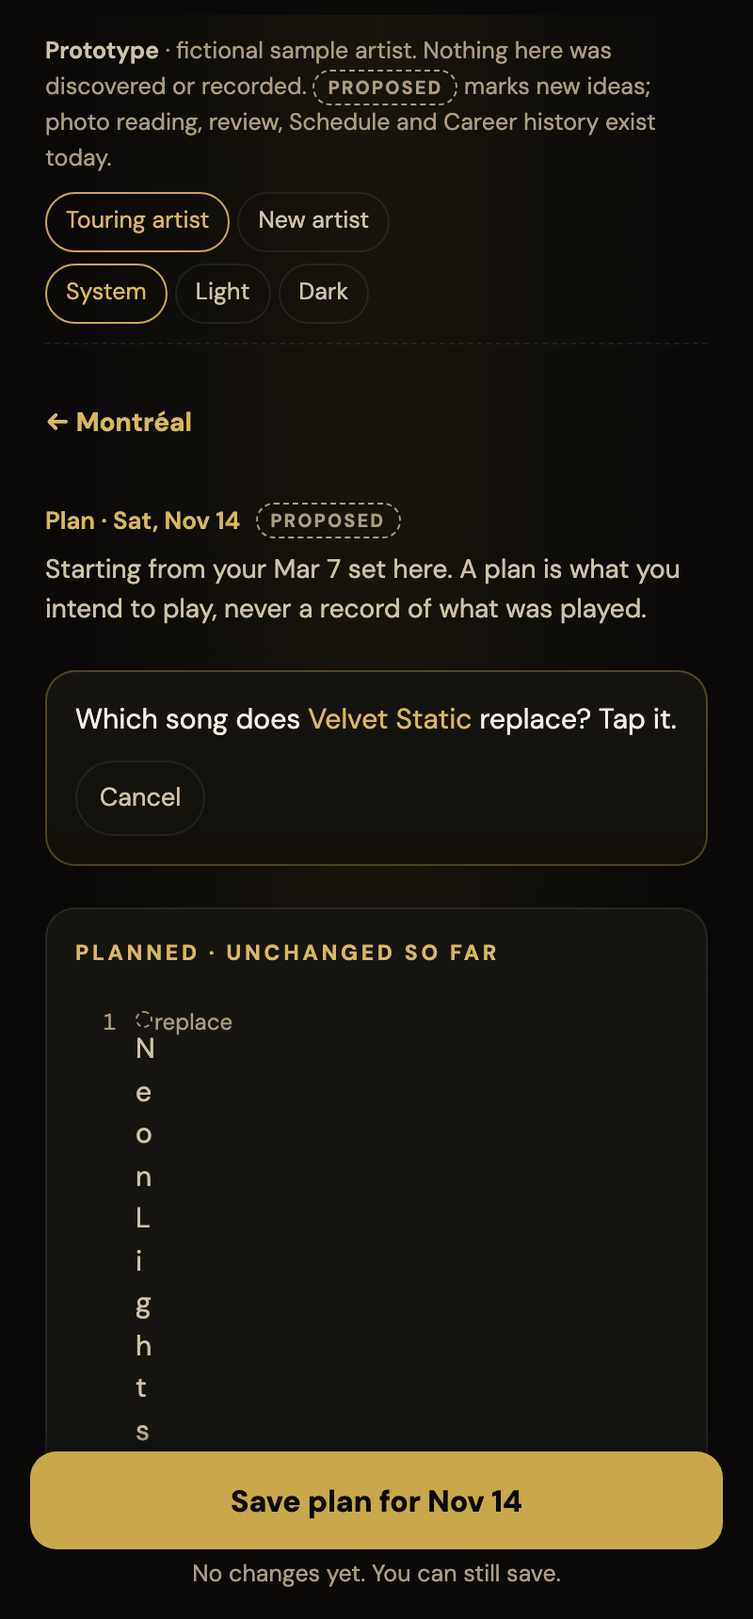
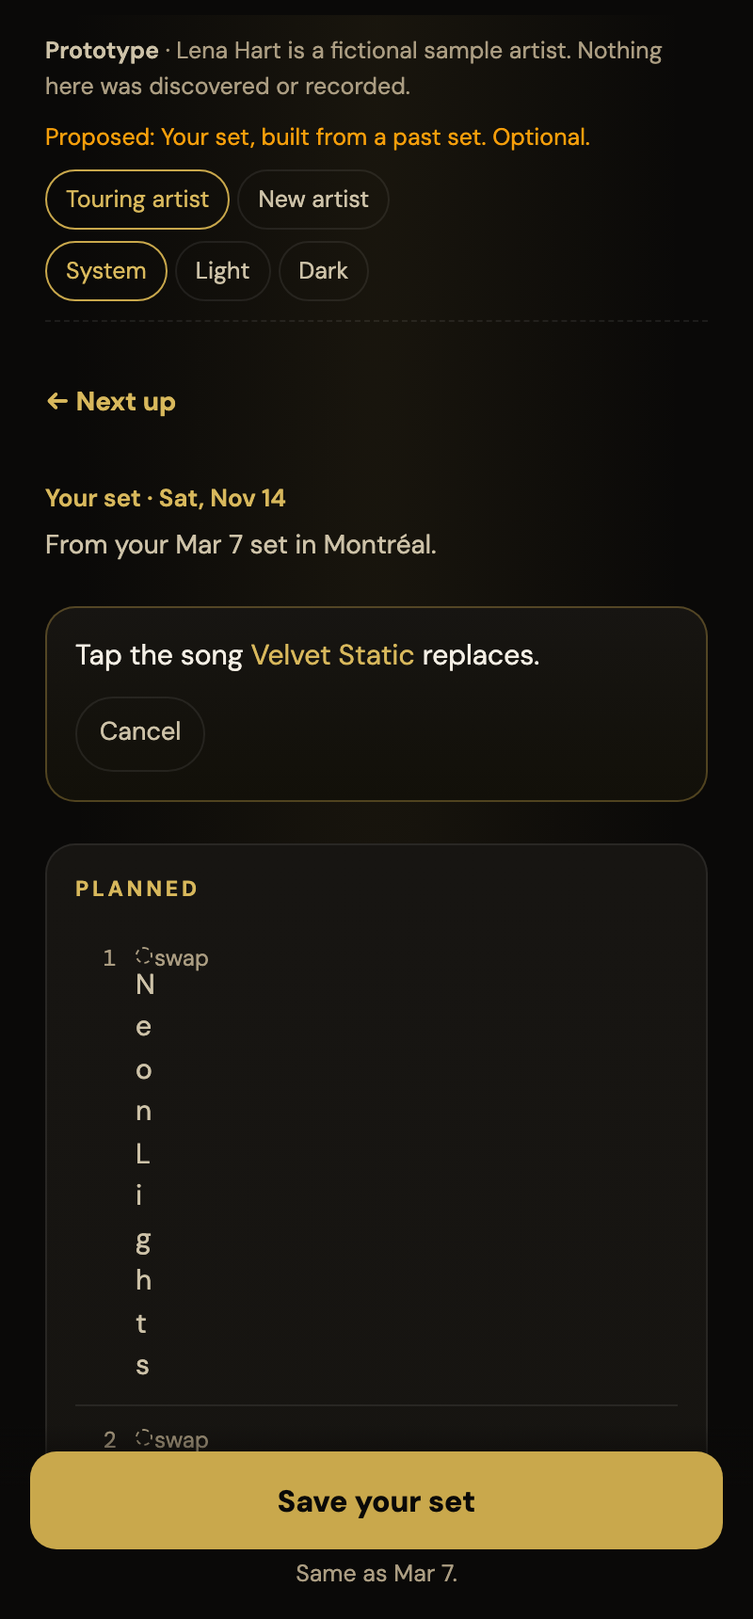
Docs: prototype copy and branding refinement (Next up, Your set, live story; optional planning)

diff --git a/setlistr-2/docs/live-passport-prototype/passport-loop.html b/setlistr-2/docs/live-passport-prototype/passport-loop.html
@@ -1,8 +1,8 @@
-<title>Live Passport</title>
+<title>Next Up</title>
 <link rel="preconnect" href="https://fonts.googleapis.com">
 <link rel="stylesheet" href="https://fonts.googleapis.com/css2?family=Bebas+Neue&family=DM+Mono:wght@400;500&family=DM+Sans:opsz,wght@9..40,400;9..40,500;9..40,600;9..40,700;9..40,800&display=swap">
 <style>
-/* Layout: one phone-first column. Today's show leads; the Passport sits below. One primary action pinned to the bottom.
+/* Layout: one phone-first column. Next up leads; your live story (Career) sits below. One primary action pinned to the bottom.
    Dark-first like the app (Setlistr --sl tokens); Light uses the app's own Light values. */
 :root {
   --sl-bg: #0a0908; --sl-surface: #16140f; --sl-surface-2: #1d1a15; --sl-line: rgba(255,255,255,0.08);
@@ -40,6 +40,8 @@ button:focus-visible, summary:focus-visible { outline: 2px solid var(--sl-accent
 
 .proto { max-width: 520px; margin: 0 auto; padding-block: 10px; display: grid; gap: 8px; border-bottom: 1px dashed var(--sl-line); font-size: 12.5px; color: var(--sl-text-3); }
 .proto b { color: var(--sl-text-2); font-weight: 600; }
+.pnote { color: var(--sl-warn); }
+.pnote:empty { display: none; }
 .proto .row { display: flex; flex-wrap: wrap; gap: 6px 12px; align-items: center; justify-content: space-between; }
 .seg { display: inline-flex; gap: 4px; flex-wrap: wrap; }
 .seg button { background: none; border: 1px solid var(--sl-line); border-radius: 999px; padding: 4px 10px; min-height: 32px; font-size: 12.5px; color: var(--sl-text-2); }
@@ -79,6 +81,7 @@ ol.set.planned li .t::before { content: ''; display: inline-block; width: 7px; h
 ol.set.played li .t::before { content: ''; display: inline-block; width: 7px; height: 7px; background: var(--sl-gold); border-radius: 50%; margin-right: 8px; vertical-align: 1px; }
 ol.set.compact { display: block; columns: 2; column-gap: 18px; }
 ol.set.compact li { break-inside: avoid; border-top: 0; padding: 4px 0; font-size: 14px; grid-template-columns: 18px minmax(0,1fr) auto; gap: 8px; }
+ol.set li.skipd .t::before { background: transparent !important; border: 1.5px dashed var(--sl-text-3) !important; }
 ol.set li.skipd .t { text-decoration: line-through; color: var(--sl-text-3); }
 
 .chip { display: inline-flex; gap: 8px; align-items: center; min-height: 44px; padding: 8px 14px; border-radius: 999px; border: 1px solid color-mix(in srgb, var(--sl-gold) 50%, transparent); background: color-mix(in srgb, var(--sl-gold) 10%, transparent); color: var(--sl-gold-text); font-weight: 700; }
@@ -129,7 +132,7 @@ details.how dd { margin: 0 0 4px; color: var(--sl-text-3); }
 .hist span { font: 10.5px/1.3 var(--mono); color: var(--sl-text-3); white-space: nowrap; text-align: center; }
 @media (prefers-reduced-motion: no-preference) { .hist .m.new { animation: land .9s cubic-bezier(.2,.9,.2,1.2) both .2s; } @keyframes land { from { transform: translateY(-40px) scale(2.4); opacity: 0; } 60% { opacity: 1; } } }
 
-/* The wider Passport. */
+/* Your live story (within Career). */
 .pp { border-top: 1px solid var(--sl-text); padding-top: 14px; display: grid; gap: 14px; }
 .pp-id { display: flex; justify-content: space-between; gap: 10px; align-items: baseline; flex-wrap: wrap; }
 .pp-name { font-family: var(--display); font-size: 44px; line-height: .9; letter-spacing: .012em; }
@@ -160,7 +163,8 @@ details.how dd { margin: 0 0 4px; color: var(--sl-text-3); }
 </style>
 
 <div class="proto" role="region" aria-label="Prototype controls">
-  <span><b>Prototype</b> · fictional sample artist. Nothing here was discovered or recorded. <span class="prop">Proposed</span> marks new ideas; photo reading, review, Schedule and Career history exist today.</span>
+  <span><b>Prototype</b> · Lena Hart is a fictional sample artist. Nothing here was discovered or recorded.</span>
+  <span id="pnote" class="pnote"></span>
   <div class="row">
     <span class="seg" aria-label="Sample"><button data-scn="est" aria-pressed="true">Touring artist</button><button data-scn="new" aria-pressed="false">New artist</button></span>
     <span class="seg" aria-label="Theme"><button data-th="system" aria-pressed="true">System</button><button data-th="light" aria-pressed="false">Light</button><button data-th="dark" aria-pressed="false">Dark</button></span>
@@ -254,86 +258,79 @@ function discovery(show) {
 // ── Screens ───────────────────────────────────────────────────────────────
 function today() {
   const show = next()
-  if (!show) return `<section style="display:grid;gap:10px"><div class="ov">Live Passport · ${esc(A.name)}</div><h1 class="city" style="font-size:72px">No show booked</h1>
-    <p class="when">Your record is up to date. Add your next show and its briefing will be here.</p></section>${passport()}`
-  const d = discovery(show), n = days(A.today, show.date), when = n === 0 ? 'Tonight' : n === 1 ? 'Tomorrow' : `In ${n} days`
-  const nth = d.here.length + 1, last = d.last, noSet = d.here.filter(x => !x.songs)
-  const lastAny = d.here[d.here.length - 1]
-  let say = '', scope = ''
+  if (!show) return `<section style="display:grid;gap:6px"><div class="ov">Next up</div><h1 class="city">Nothing booked</h1>
+    <p class="when">Add your next show and it will lead here.</p></section>${story()}`
+  const d = discovery(show), n = days(A.today, show.date), when = n === 0 ? 'tonight' : n === 1 ? 'tomorrow' : `in ${n} days`
+  const last = d.last, noSet = d.here.filter(x => !x.songs), lastAny = d.here[d.here.length - 1]
+  let head = '', fact = '', qual = ''
   if (d.kind === 'recent') {
-    say = `<em>${esc(d.song)}</em> has joined your sets: it’s in ${d.count} of your last ${d.of}, first on your record ${short(d.first)}. It isn’t in any ${esc(show.city)} setlist on your record.`
-    scope = `${w(d.sets.length)[0].toUpperCase() + w(d.sets.length).slice(1)} of your ${w(d.here.length)} ${esc(show.city)} nights have a setlist.${noSet.length ? ` ${noSet.map(x => full(x.date)).join(', ')} ${noSet.length === 1 ? 'has' : 'have'} none, so we can’t say what was played then.` : ''}`
+    head = `<em>${esc(d.song)}</em> is new since your last ${esc(show.city)} set.`
+    fact = `It’s in ${d.count} of your last ${d.of} sets, from ${short(d.first)}.`
+    qual = `Not in your ${w(d.sets.length)} ${esc(show.city)} setlists.${noSet.length ? ` ${noSet.map(x => full(x.date)).join(', ')} ${noSet.length === 1 ? 'has' : 'have'} no setlist, so it may have been played then.` : ''}`
   } else if (d.kind === 'catalog') {
-    say = `<em>${esc(d.song)}</em> is in your songs but not in your one recorded set.`
-    scope = `From your one recorded night and your song list. Nothing here is about what audiences like.`
+    head = `<em>${esc(d.song)}</em> wasn’t in your last set.`
+    fact = `It’s in your songs. ${short(last.date)} in ${esc(last.city)} is your only set so far.`
   }
   return `
     <section style="display:grid;gap:4px">
-      <div class="ov">${when} · Live Passport</div>
+      <div class="ov">Next up · ${when}</div>
       <h1 class="city">${esc(show.city)}</h1>
-      <p class="when"><b>${wday(show.date)}</b> · ${esc(show.venue)} · ${d.here.length ? `your ${ord(nth)} night here on your record` : d.last ? 'a new city on your record' : 'a new city'}</p>
+      <p class="when"><b>${wday(show.date)}</b> · ${esc(show.venue)} · ${d.here.length ? `your ${ord(d.here.length + 1)} night here` : 'your first night here'}</p>
     </section>
-    ${say ? `<section class="card gold">
-      <div class="kick">${d.kind === 'recent' ? `Since ${short(last.date)}` : 'Something to try'} <span class="prop">Proposed</span></div>
-      <p class="big-say">${say}</p>
-      <p class="small">${scope}</p>
-      <details class="how"><summary>How we know</summary><dl>${(d.here.length ? d.here : [last]).map(x => `<dt>${full(x.date)} · ${esc(x.venue)}</dt><dd>${x.songs ? `${x.songs.length} songs · ${x.source === 'photo' ? 'setlist photo, confirmed in review' : 'live capture, confirmed in review'}${x.songs.includes(d.song) ? ` · includes ${esc(d.song)}` : ''}` : 'Listed show you confirmed happened · no setlist'}</dd>`).join('')}</dl></details>
+    ${head ? `<section class="card gold">
+      <p class="big-say">${head}</p>
+      <p class="say">${fact}</p>
+      ${qual ? `<p class="small">${qual}</p>` : ''}
+      <details class="how"><summary>How we know</summary><dl>${(d.here.length ? d.here : [last]).map(x => `<dt>${full(x.date)} · ${esc(x.venue)}</dt><dd>${x.songs ? `${x.songs.length} songs · ${x.source === 'photo' ? 'setlist photo, confirmed in Review' : 'live capture, confirmed in Review'}${x.songs.includes(d.song) ? ` · includes ${esc(d.song)}` : ''}` : 'Show confirmed · no setlist'}</dd>`).join('')}</dl></details>
     </section>` : ''}
     ${last ? `<section class="card">
-      <div class="kick">${d.here.length ? 'Last time here' : 'Your last set'}</div>
-      <p class="sub"><b style="color:var(--sl-text)">${full(last.date)}</b> · ${esc(last.venue)}${d.here.length ? '' : `, ${esc(last.city)}`} · ${last.songs.length} songs${lastAny && lastAny !== last ? `<br><span class="small">Your most recent night here, ${full(lastAny.date)}, has no setlist.</span>` : ''}</p>
+      <div class="kick">${d.here.length ? `Last time in ${esc(show.city)}` : `Your last show · ${esc(last.city)}`}</div>
+      <p class="sub"><b style="color:var(--sl-text)">${full(last.date)}</b> · ${esc(last.venue)} · ${last.songs.length} songs${lastAny && lastAny !== last ? `<br><span class="small">${full(lastAny.date)} here has no setlist.</span>` : ''}</p>
       <ol class="set compact">${last.songs.map((s, i) => `<li><span class="i">${i + 1}</span><span class="t">${esc(s)}</span></li>`).join('')}</ol>
-      <p class="small">${last.source === 'photo' ? 'Order from a setlist photo, not confirmed as played.' : 'Order as played (live capture).'}</p>
+      ${last.source === 'photo' ? '<p class="small">Order from the setlist sheet.</p>' : ''}
     </section>` : ''}
-    ${passport()}`
+    <button class="ghost" data-photo style="justify-self:start">Played already? Add the setlist photo</button>
+    ${story()}`
 }
 
 function plan() {
-  const d = S.sug, show = next()
-  const planned = S.plan
-  const changed = S.swap
+  const d = S.sug, show = next(), planned = S.plan, changed = S.swap
   return `
-    <button class="back" data-go="today">← ${esc(show.city)}</button>
-    <section style="display:grid;gap:6px">
-      <div class="ov">Plan · ${wday(show.date)} <span class="prop">Proposed</span></div>
-      <p class="sub">Starting from ${d.here.length ? `your ${short(d.last.date)} set here` : `your ${short(d.last.date)} set`}. A plan is what you intend to play, never a record of what was played.</p>
+    <button class="back" data-go="today">← Next up</button>
+    <section style="display:grid;gap:4px">
+      <div class="ov">Your set · ${wday(show.date)}</div>
+      <p class="sub">From your ${short(d.last.date)} set${d.here.length ? ` in ${esc(show.city)}` : ''}.</p>
     </section>
     ${d.song && !changed ? `<section class="card gold">
-      ${S.choosing ? `<p class="say">Which song does <em>${esc(d.song)}</em> replace? Tap it.</p><button class="ghost" data-cancel style="justify-self:start">Cancel</button>`
-        : `<button class="chip" data-bring>Bring in ${esc(d.song)}</button><p class="small">You choose what it replaces. Setlistr doesn’t pick songs for you.</p>`}
+      ${S.choosing ? `<p class="say">Tap the song <em>${esc(d.song)}</em> replaces.</p><button class="ghost" data-cancel style="justify-self:start">Cancel</button>`
+        : `<button class="chip" data-bring>Bring in ${esc(d.song)}</button>`}
     </section>` : ''}
-    ${changed ? '' : `<section class="card">
-      <div class="kick">Planned · unchanged so far</div>
-      <ol class="set planned ${S.choosing ? 'pick' : ''}">${planned.map((s, i) => S.choosing
-        ? `<li><button data-swap="${i}"><span class="i">${i + 1}</span><span class="t">${esc(s)}</span><span class="x">replace</span></button></li>`
-        : `<li><span class="i">${i + 1}</span><span class="t">${esc(s)}</span></li>`).join('')}</ol>
-    </section>`}
     ${changed ? `<section class="card">
-      <div class="kick">Your plan, compared with ${short(d.last.date)}</div>
-      <div class="cmp"><div class="hd">${short(d.last.date)} · played</div><div class="hd">${short(show.date)} · planned only</div>
+      <div class="cmp"><div class="hd">${short(d.last.date)} · played</div><div class="hd">${short(show.date)} · planned</div>
         ${d.base.map((s, i) => `<div class="c ${i === changed.i ? 'out' : ''}">${esc(s)}</div><div class="c ${i === changed.i ? 'newin' : ''}">${esc(planned[i])}</div>`).join('')}</div>
-      <p class="say">One change: <em>${esc(changed.to)}</em> in for ${esc(changed.from)}, at number ${changed.i + 1}.</p>
+      <p class="say"><em>${esc(changed.to)}</em> in for ${esc(changed.from)}.</p>
       <button class="ghost" data-undo style="justify-self:start">Undo</button>
-    </section>` : ''}`
+    </section>` : `<section class="card">
+      <div class="kick">Planned</div>
+      <ol class="set planned ${S.choosing ? 'pick' : ''}">${planned.map((s, i) => S.choosing
+        ? `<li><button data-swap="${i}"><span class="i">${i + 1}</span><span class="t">${esc(s)}</span><span class="x">swap</span></button></li>`
+        : `<li><span class="i">${i + 1}</span><span class="t">${esc(s)}</span></li>`).join('')}</ol>
+    </section>`}`
 }
 
 function showDay() {
   const show = next()
   return `
-    <p class="skip">Prototype: skipping ahead to ${wday(show.date)}, after the show.</p>
     <section style="display:grid;gap:4px">
       <div class="ov">Tonight · ${esc(show.venue)}</div>
       <h1 class="city">${esc(show.city)}</h1>
-      <p class="when">Your plan had <b>${S.plan.length} songs</b>${S.swap ? `, with ${esc(S.swap.to)} new here` : ''}. Tell Setlistr what actually happened.</p>
+      ${S.plan ? `<p class="when">Your set: <b>${S.plan.length} songs planned</b>${S.swap ? `, with ${esc(S.swap.to)}` : ''}.</p>` : ''}
     </section>
-    <section class="card">
-      <p class="say">Take a photo of the stage setlist, as you can today, and confirm what Setlistr can’t read for sure. Live capture works too if you ran it during the set.</p>
-      <p class="small">Your plan isn’t used as the answer. Only what you confirm goes on your record.</p>
-    </section>`
+    <section class="card"><p class="big-say">What did you play?</p><p class="say">Add the stage setlist photo, or use live capture if it ran.</p></section>`
 }
 
 function makeSheet() {
-  const p = S.plan.slice(), xi = Math.max(1, p.length - 4)
+  const p = (S.plan || discovery(next()).base).slice(), xi = Math.max(1, p.length - 4)
   const crossed = p[xi] === S.swap?.to ? p[xi - 1] : p[xi]
   const extra = A.catalog.find(s => !p.includes(s) && SHORT[s]) || A.catalog.find(s => !p.includes(s))
   const lines = p.map(s => ({ text: s, song: s, x: s === crossed }))
@@ -342,12 +339,10 @@ function makeSheet() {
 }
 
 function confirmS() {
-  const sh = S.sheet, show = next(), a = S.answers
-  const reading = S.reading
+  const sh = S.sheet, show = next(), a = S.answers, reading = S.reading
   return `
-    <section style="display:grid;gap:4px"><div class="ov">After the show · ${esc(show.city)} <span class="prop sim">Simulated</span></div>
-      <p class="sub">Your setlist photo</p></section>
-    <div class="sheet" aria-label="Photo of the stage setlist (simulated)">${reading ? '<div class="scan"></div>' : ''}
+    <section style="display:grid;gap:4px"><div class="ov">After the show · ${esc(show.city)}</div><p class="sub">Your setlist photo</p></section>
+    <div class="sheet" role="img" aria-label="Photo of the stage setlist (simulated)">${reading ? '<div class="scan"></div>' : ''}
       <div class="hdr">${esc(show.city.toUpperCase())} · ${short(show.date).toUpperCase()}</div>
       <ol>${sh.lines.map(l => `<li class="${l.x ? 'x' : ''} ${l.add ? 'add' : ''}">${l.add ? '^ ' : ''}${esc(l.text)}</li>`).join('')}</ol></div>
     ${reading ? `<p class="small" style="text-align:center">Reading the photo…</p>` : `
@@ -357,68 +352,74 @@ function confirmS() {
         <div class="opts">${[['skip', 'Skipped'], ['played', 'We played it']].map(([v, l]) => `<button class="opt" data-ans="x" data-v="${v}" aria-pressed="${a.x === v}">${l}</button>`).join('')}</div></div>
       <div class="q ${a.add ? 'ok' : ''}"><p>Handwritten <b>“${esc(SHORT[sh.extra] || sh.extra)}”</b> near the end. Which song is it?</p>
         <div class="opts">${[['song', sh.extra], ['none', 'Not a song we played']].map(([v, l]) => `<button class="opt" data-ans="add" data-v="${v}" aria-pressed="${a.add === v}">${esc(l)}</button>`).join('')}</div></div>
-      <p class="small">Order is taken from the sheet and marked unconfirmed. Anything else can be fixed in Review.</p>
+      <p class="small">Order follows the sheet. Fix anything else in Review.</p>
     </section>`}`
 }
 
 function done() {
-  const show = S.result.night, d = S.sug
-  const here = inCity(show.city), sets = here.filter(n => n.songs)
-  const sup = S.result.change
+  const show = S.result.night, here = inCity(show.city)
   return `
-    <section style="display:grid;gap:4px"><div class="ov">On your record · ${wday(show.date)}</div>
-      <h1 class="city">${esc(show.city)}</h1>
-      <p class="when">${esc(show.venue)} · <b>${show.songs.length} songs played</b></p></section>
+    <section style="display:grid;gap:4px"><div class="ov">${esc(show.city)} · ${esc(show.venue)} · ${short(show.date)}</div>
+      <h1 class="city">${here.length === 1 ? 'First night' : `Night ${w(here.length)}`}</h1>
+      <p class="when"><b>${show.songs.length} songs played</b> in ${esc(show.city)}.</p></section>
     <section class="card">
-      <div class="kick" id="txk">Planned</div>
+      <div class="kick" id="txk">${S.plan ? 'Planned' : 'From your photo'}</div>
       <ol class="set compact planned tx" id="tx">${S.result.rows.map((r, i) => `<li class="${r.added ? 'arrive' : ''}" data-r="${r.state}"><span class="i">${i + 1}</span><span class="t">${esc(r.song)}</span>${r.added ? '<span class="tag">added</span>' : r.state === 'skip' ? '<span class="tag" style="color:var(--sl-text-3)">skipped</span>' : ''}</li>`).join('')}</ol>
     </section>
     <section class="card gold reveal wait" id="rv1">
-      <div class="kick">What changed</div>
-      <p class="big-say">${sup}</p>
-      ${here.length > 1 ? `<p class="small">${w(sets.length)[0].toUpperCase() + w(sets.length).slice(1)} of your ${w(here.length)} ${esc(show.city)} nights now have a setlist.</p>` : ''}
+      <p class="big-say">${S.result.change}</p>
+      ${S.result.qual ? `<p class="small">${S.result.qual}</p>` : ''}
     </section>
     <section class="card reveal wait" id="rv2">
-      <div class="kick">${esc(show.city)} on your record</div>
+      <div class="kick">${esc(show.city)} in your live story</div>
       <div class="hist">${here.map(n => `<div class="nt"><i class="m ${n.songs ? '' : 'none'} ${n === show ? 'new' : ''}"></i><span>${short(n.date)}<br>${n.date.slice(0, 4)}</span></div>`).join('')}</div>
-      <p class="small">Your effort tonight: one photo and two answers.</p>
       <details class="how"><summary>How this night was recorded</summary><dl>
-        <dt>Source</dt><dd>Photo of the stage setlist (simulated here), read by Setlistr.</dd>
+        <dt>Source</dt><dd>Stage setlist photo, read by Setlistr.</dd>
         <dt>Your answers</dt><dd>${esc(S.sheet.crossed)}: ${S.answers.x === 'skip' ? 'skipped' : 'played'}. “${esc(SHORT[S.sheet.extra] || S.sheet.extra)}”: ${S.answers.add === 'song' ? esc(S.sheet.extra) : 'not a song played'}.</dd>
-        <dt>Order</dt><dd>From the sheet. Not confirmed as played.</dd>
-        <dt>Plan</dt><dd>Kept separately. The plan isn’t part of the record.</dd></dl></details>
+        <dt>Order</dt><dd>From the sheet.</dd>
+        ${S.plan ? '<dt>Your set</dt><dd>Kept as planned; it isn’t part of what was played.</dd>' : ''}</dl></details>
     </section>`
 }
 
-function passport() {
-  const p = past(), first = p[0]
+function story() {
+  const p = past(), first = p[0], nc = new Set(p.map(n => n.city)).size
   const months = []; let [y, m] = A.nights[0].date.slice(0, 7).split('-').map(Number); const lastK = A.nights[A.nights.length - 1].date.slice(0, 7)
   while (`${y}-${String(m).padStart(2, '0')}` <= lastK) { months.push(`${y}-${String(m).padStart(2, '0')}`); if (++m > 12) { m = 1; y++ } }
   const cities = new Map(); for (const n of A.nights) { const c = cities.get(n.city) || { past: 0, up: null }; if (n.upcoming) c.up = c.up || n; else c.past++; cities.set(n.city, c) }
   const rows = [...cities].sort((a, b) => (b[1].up ? 1 : 0) - (a[1].up ? 1 : 0) || b[1].past - a[1].past).slice(0, 5)
-  return `<section class="pp" aria-label="Your Passport">
-    <div class="pp-id"><span class="pp-name">${esc(A.name)}</span><span class="sample prop">Sample</span></div>
-    <div class="pp-n"><b>${p.length}</b>${p.length === 1 ? 'night' : 'nights'} on your record · ${new Set(p.map(n => n.city)).size} ${new Set(p.map(n => n.city)).size === 1 ? 'city' : 'cities'} · since ${full(first.date)}</div>
+  return `<section class="pp" aria-labelledby="story-h">
+    <div class="pp-id"><span class="kick" id="story-h">Your live story</span><span class="small">In Career</span></div>
+    <span class="pp-name">${esc(A.name)}</span>
+    <div class="pp-n"><b>${p.length}</b>${p.length === 1 ? 'night' : 'nights'} · ${nc} ${nc === 1 ? 'city' : 'cities'} · since ${full(first.date)}</div>
+    <p class="small">From shows confirmed in Setlistr.</p>
     <div class="strip"><div class="months">${months.map((k, i) => `<div class="mo"><span class="dots">${A.nights.filter(n => n.date.startsWith(k)).map(n => `<i class="n ${n.upcoming ? 'up' : ''} ${n.justAdded ? 'new' : ''}"></i>`).join('')}</span><span class="yr">${k.endsWith('-01') || i === 0 ? k.slice(0, 4) : ''}</span></div>`).join('')}</div></div>
     <div class="rows">${rows.map(([c, v]) => `<div class="row-c ${v.up && v.up === next() ? 'hl' : ''}"><b>${esc(c)}</b><span>${v.up ? short(v.up.date) + ' · ' : ''}${v.past ? `${v.past} ${v.past === 1 ? 'night' : 'nights'}` : 'new'}</span></div>`).join('')}</div>
   </section>`
 }
 
 // ── Actions ───────────────────────────────────────────────────────────────
+const NOTES = {
+  today: 'Proposed: the Next up briefing and Your set. Schedule, photo reading, Review and Career exist today. “Add the setlist photo” skips ahead to after the show.',
+  plan: 'Proposed: Your set, built from a past set. Optional.',
+  show: () => `Skipped ahead to ${wday(next().date)}, after the show.`,
+  confirm: 'Simulated photo, drawn by the prototype. Photo reading exists in Setlistr today; nothing here was read or recorded.',
+  done: 'Simulated night. Nothing was recorded.',
+}
 function action() {
   const show = next()
   switch (S.stage) {
     case 'today': return show
-      ? { label: `Start ${short(show.date)} from your ${short(discovery(show).last.date)} set`, note: 'Builds a planned set you can change. Nothing is recorded.', go: startPlan }
-      : { label: 'Add your next show', note: 'Opens Schedule (exists today).', go: () => toast('Prototype: would open Schedule.') }
-    case 'plan': return { label: `Save plan for ${short(show.date)}`, note: S.swap ? `1 change from ${short(S.sug.last.date)}.` : 'No changes yet. You can still save.', go: () => { S.stage = 'show'; render(true) } }
-    case 'show': return { label: 'Add tonight’s setlist photo', note: 'Simulated in this prototype.', go: () => { S.sheet = makeSheet(); S.answers = {}; S.reading = true; S.stage = 'confirm'; render(true); setTimeout(() => { S.reading = false; render() }, motion() ? 1400 : 0) } }
-    case 'confirm': return { label: `Confirm ${short(show.date)}`, note: S.reading ? 'Reading…' : (S.answers.x && S.answers.add ? 'Puts this night on your record.' : 'Answer the two questions first.'), disabled: S.reading || !(S.answers.x && S.answers.add), go: confirmNight }
-    case 'done': { const nx = A.nights.find(n => n.upcoming); return { label: nx ? `Next: ${nx.city}, ${short(nx.date)}` : 'Back to your Passport', note: nx ? 'Its briefing is ready.' : 'Your record now includes tonight.', go: () => { A.today = S.result.night.date; reset2(); render(true) } } }
+      ? { label: 'Build your set', note: `Starts from your ${short(discovery(show).last.date)} set.`, go: startPlan }
+      : { label: 'Add your next show', note: '', go: () => toast('Prototype: would open Schedule.') }
+    case 'plan': return { label: 'Save your set', note: S.swap ? `1 change from ${short(S.sug.last.date)}.` : `Same as ${short(S.sug.last.date)}.`, go: () => { S.stage = 'show'; render(true) } }
+    case 'show': return { label: 'Add setlist photo', note: '', go: openPhoto }
+    case 'confirm': return { label: 'Confirm the night', note: S.reading ? 'Reading…' : (S.answers.x && S.answers.add ? '' : 'Answer the two questions first.'), disabled: S.reading || !(S.answers.x && S.answers.add), go: confirmNight }
+    case 'done': { const nx = A.nights.find(n => n.upcoming); return { label: nx ? `Next up: ${nx.city}` : 'Done', note: '', go: () => { A.today = S.result.night.date; reset2(); render(true) } } }
   }
 }
 function reset2() { S = { stage: 'today', plan: null, base: null, sug: null, choosing: false, swap: null, answers: {}, sheet: null, result: null } }
 function startPlan() { const show = next(); S.sug = discovery(show); S.plan = S.sug.base.slice(); S.swap = null; S.choosing = false; S.stage = 'plan'; render(true) }
+function openPhoto() { S.sug = S.sug || discovery(next()); S.sheet = makeSheet(); S.answers = {}; S.reading = true; S.stage = 'confirm'; render(true); setTimeout(() => { S.reading = false; render() }, motion() ? 1400 : 0) }
 
 function confirmNight() {
   const show = next(), sh = S.sheet, a = S.answers
@@ -428,20 +429,24 @@ function confirmNight() {
     rows.push({ song: l.song, state: l.x && a.x === 'skip' ? 'skip' : 'played' })
   }
   const songs = rows.filter(r => r.state === 'played').map(r => r.song)
-  const before = inCity(show.city).filter(n => n.songs).flatMap(n => n.songs)
-  const everBefore = past().some(n => n.songs && n.songs.includes(S.sug.song))
+  const s = S.sug.song, everBefore = s && past().some(n => n.songs && n.songs.includes(s))
+  const prior = inCity(show.city), noSet = prior.filter(n => !n.songs)
   for (const n of A.nights) n.justAdded = false
   Object.assign(show, { upcoming: false, songs, source: 'photo', justAdded: true })
-  let change
-  const s = S.sug.song
-  if (s && songs.includes(s)) change = everBefore
-    ? `<em>${esc(s)}</em> is now in a ${esc(show.city)} setlist on your record, for the first time.`
-    : `<em>${esc(s)}</em>: first time in a setlist on your record.${inCity(show.city).length === 1 ? ` And ${esc(show.city)} is a new city on your record.` : ''}`
-  else if (inCity(show.city).length === 1) change = `${esc(show.city)} is a new city on your record.`
-  else change = `${esc(show.city)} now has ${inCity(show.city).length} nights on your record.`
-  S.result = { night: show, rows, change }
+  const here = inCity(show.city), sets = here.filter(n => n.songs)
+  let change, qual = ''
+  if (s && songs.includes(s) && everBefore) {
+    change = `<em>${esc(s)}</em>, first time in a ${esc(show.city)} set.`
+    qual = noSet.length ? `Among your ${esc(show.city)} setlists. ${noSet.map(x => full(x.date)).join(', ')} ${noSet.length === 1 ? 'has' : 'have'} none.` : `Among your ${esc(show.city)} setlists.`
+  } else if (s && songs.includes(s)) {
+    change = `<em>${esc(s)}</em>, first time in a set.`
+    qual = here.length === 1 ? `And ${esc(show.city)} joins your live story.` : ''
+  } else if (here.length === 1) change = `${esc(show.city)} joins your live story.`
+  else { change = `${cap(w(sets.length))} of your ${w(here.length)} ${esc(show.city)} nights now have a setlist.` }
+  S.result = { night: show, rows, change, qual }
   S.stage = 'done'; render(true); animateDone()
 }
+const cap = t => t[0].toUpperCase() + t.slice(1)
 
 function animateDone() {
   const items = [...document.querySelectorAll('#tx li')], t = motion() ? 1 : 0
@@ -460,7 +465,8 @@ function render(top) {
   const m = { today, plan, show: showDay, confirm: confirmS, done }[S.stage]
   $('#main').innerHTML = m()
   const a = action()
-  $('#act').innerHTML = `<button class="btn" id="go" ${a.disabled ? 'disabled' : ''}>${esc(a.label)}</button><small>${esc(a.note)}</small>`
+  $('#act').innerHTML = `<button class="btn" id="go" ${a.disabled ? 'disabled' : ''}>${esc(a.label)}</button>${a.note ? `<small>${esc(a.note)}</small>` : ''}`
+  const pn = NOTES[S.stage]; $('#pnote').textContent = typeof pn === 'function' ? pn() : pn
   $('#go').onclick = a.go
   const st = document.querySelector('.strip'); if (st) st.scrollLeft = st.scrollWidth
   if (top) scrollTo({ top: 0, behavior: 'auto' })
@@ -471,6 +477,7 @@ document.addEventListener('click', e => {
   const b = e.target.closest('button'); if (!b) return
   const d = b.dataset
   if (d.go === 'today') { S.stage = 'today'; render(true) }
+  else if ('photo' in d) openPhoto()
   else if ('bring' in d) { S.choosing = true; render() }
   else if ('cancel' in d) { S.choosing = false; render() }
   else if (d.swap) { const i = +d.swap; S.swap = { i, from: S.plan[i], to: S.sug.song }; S.plan[i] = S.sug.song; S.choosing = false; render() }

diff --git a/setlistr-2/docs/live-passport-prototype/walk4.js b/setlistr-2/docs/live-passport-prototype/walk4.js
@@ -1,0 +1,35 @@
+const { chromium } = require('/Users/jesseslack/.npm/_npx/e41f203b7505f1fb/node_modules/playwright')
+const url = 'file://' + __dirname + '/passport-loop.html'
+;(async () => {
+  const b = await chromium.launch(), errs = []
+  async function page(w, h, scheme) { const p = await b.newPage({ viewport: { width: w, height: h }, colorScheme: scheme, deviceScaleFactor: 2 }); p.on('pageerror', e => errs.push(e.message)); p.on('console', m => m.type() === 'error' && errs.push(m.text())); await p.goto(url); await p.waitForTimeout(700); return p }
+  const shot = (p, n, full) => p.screenshot({ path: 'shots4/' + n + '.png', fullPage: !!full })
+  const text = async p => (await p.textContent('main')).replace(/\s+/g, ' ').slice(0, 900)
+  for (const [scheme, tag] of [['dark', 'dark'], ['light', 'light']]) {
+    const p = await page(400, 860, scheme)
+    await shot(p, `01-today-first-viewport-${tag}`)
+    if (tag === 'light') { await p.close(); continue }
+    await shot(p, '02-today-full', true); console.log('TODAY:', await text(p))
+    await p.click('#go'); await p.waitForTimeout(200); await shot(p, '03-plan-start')
+    await p.click('[data-bring]'); await p.waitForTimeout(150); await shot(p, '04-plan-choose')
+    await p.click('[data-swap="2"]'); await p.waitForTimeout(150); await shot(p, '05-plan-compare', true)
+    await p.click('#go'); await p.waitForTimeout(150); await shot(p, '06-show-day')
+    await p.click('#go'); await p.waitForTimeout(500); await shot(p, '07-photo-reading')
+    await p.waitForTimeout(1200); await shot(p, '08-confirm-questions', true); console.log('CONFIRM:', await text(p))
+    await p.click('[data-ans="x"][data-v="skip"]'); await p.click('[data-ans="add"][data-v="song"]'); await p.click('#go')
+    await p.waitForTimeout(500); await shot(p, '09-transform-midway')
+    await p.waitForTimeout(2600); await shot(p, '10-done-payoff', true); console.log('DONE:', await text(p))
+    await p.click('#go'); await p.waitForTimeout(300); await shot(p, '11-next-quebec'); console.log('NEXT:', (await text(p)).slice(0, 400))
+    console.log('overflow:', await p.evaluate(() => document.documentElement.scrollWidth > innerWidth))
+  }
+  const n = await page(400, 860, 'dark'); await n.click('[data-scn=new]'); await n.waitForTimeout(200); await shot(n, '12-new-today', true); console.log('NEW:', await text(n))
+  await n.click('#go'); await n.click('[data-bring]'); await n.click('[data-swap="7"]'); await n.click('#go'); await n.click('#go'); await n.waitForTimeout(1700)
+  await n.click('[data-ans="x"][data-v="played"]'); await n.click('[data-ans="add"][data-v="none"]'); await n.click('#go'); await n.waitForTimeout(3000)
+  await shot(n, '13-new-done', true); console.log('NEW DONE:', await text(n))
+  await n.click('#go'); await n.waitForTimeout(200); await shot(n, '14-new-after'); 
+  const q = await page(400, 860, 'dark'); await q.click('[data-photo]'); await q.waitForTimeout(1700); await shot(q, '17-direct-photo-no-plan', true)
+  await q.click('[data-ans="x"][data-v="played"]'); await q.click('[data-ans="add"][data-v="song"]'); await q.click('#go'); await q.waitForTimeout(3000); await shot(q, '18-direct-done', true); console.log('DIRECT DONE:', await text(q))
+  const u = await page(400, 860, 'dark'); await u.click('#go'); await u.waitForTimeout(150); await shot(u, '19-set-unchanged'); console.log('UNCHANGED act:', await u.textContent('#act'))
+  const d = await page(1280, 900, 'dark'); await shot(d, '15-desktop-dark'); const l = await page(1280, 900, 'light'); await shot(l, '16-desktop-light')
+  console.log('errors:', errs); await b.close()
+})()
